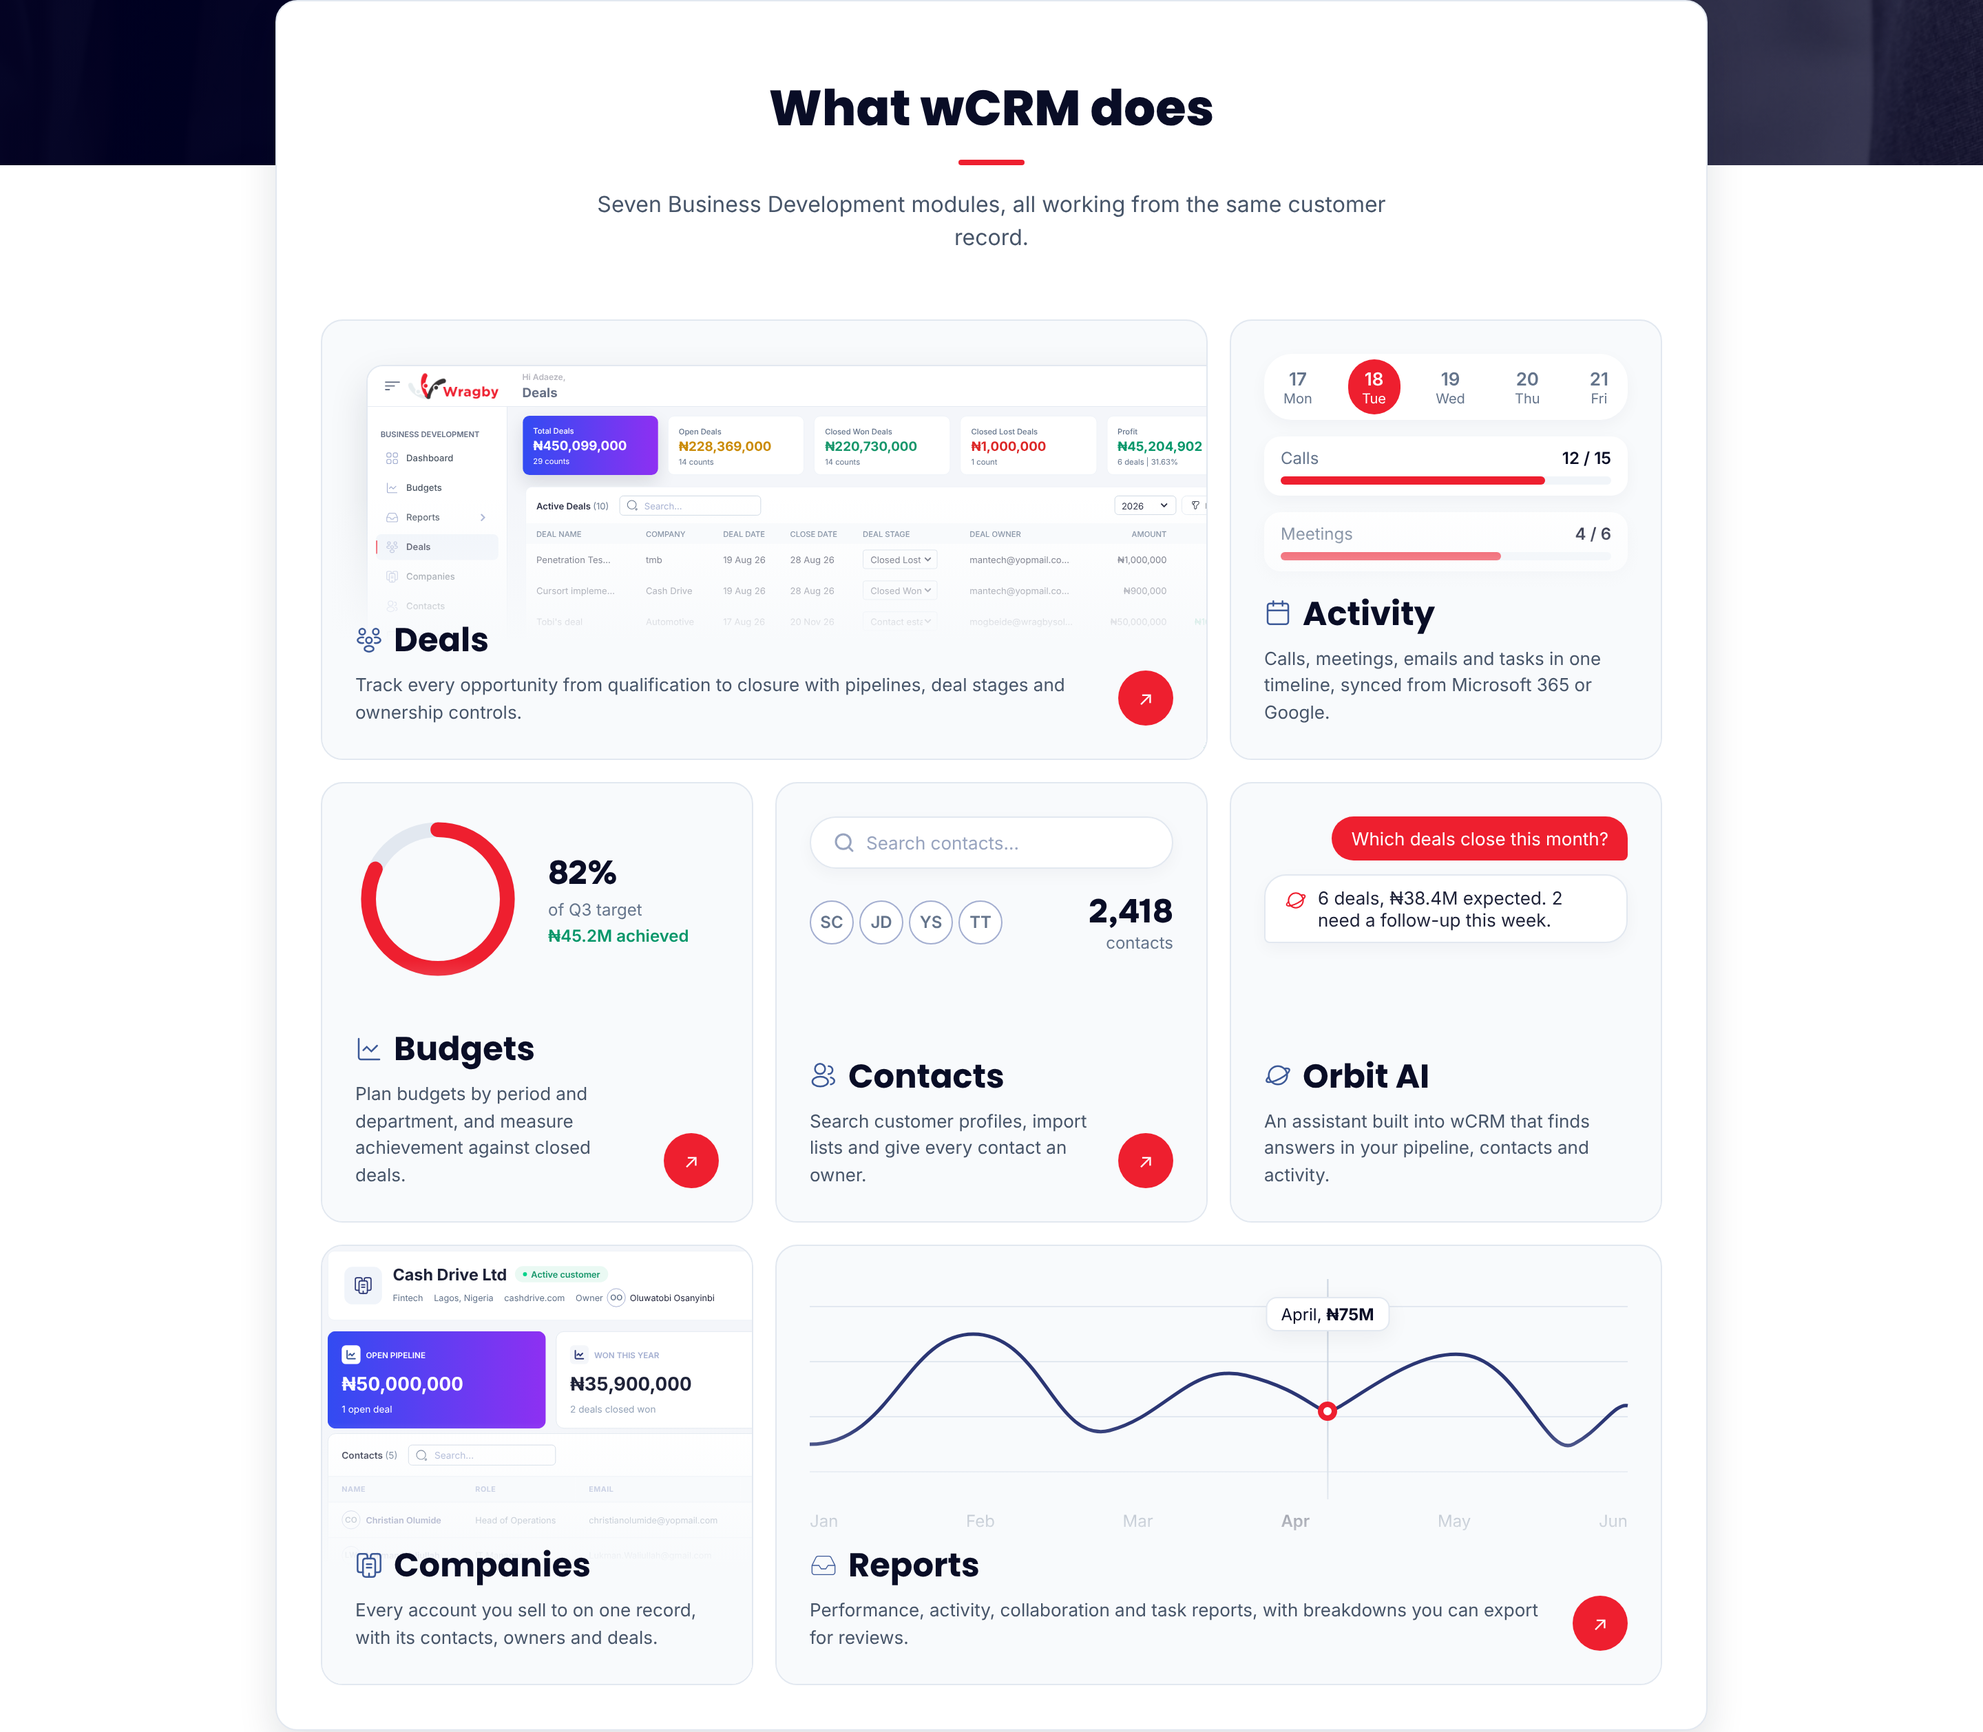
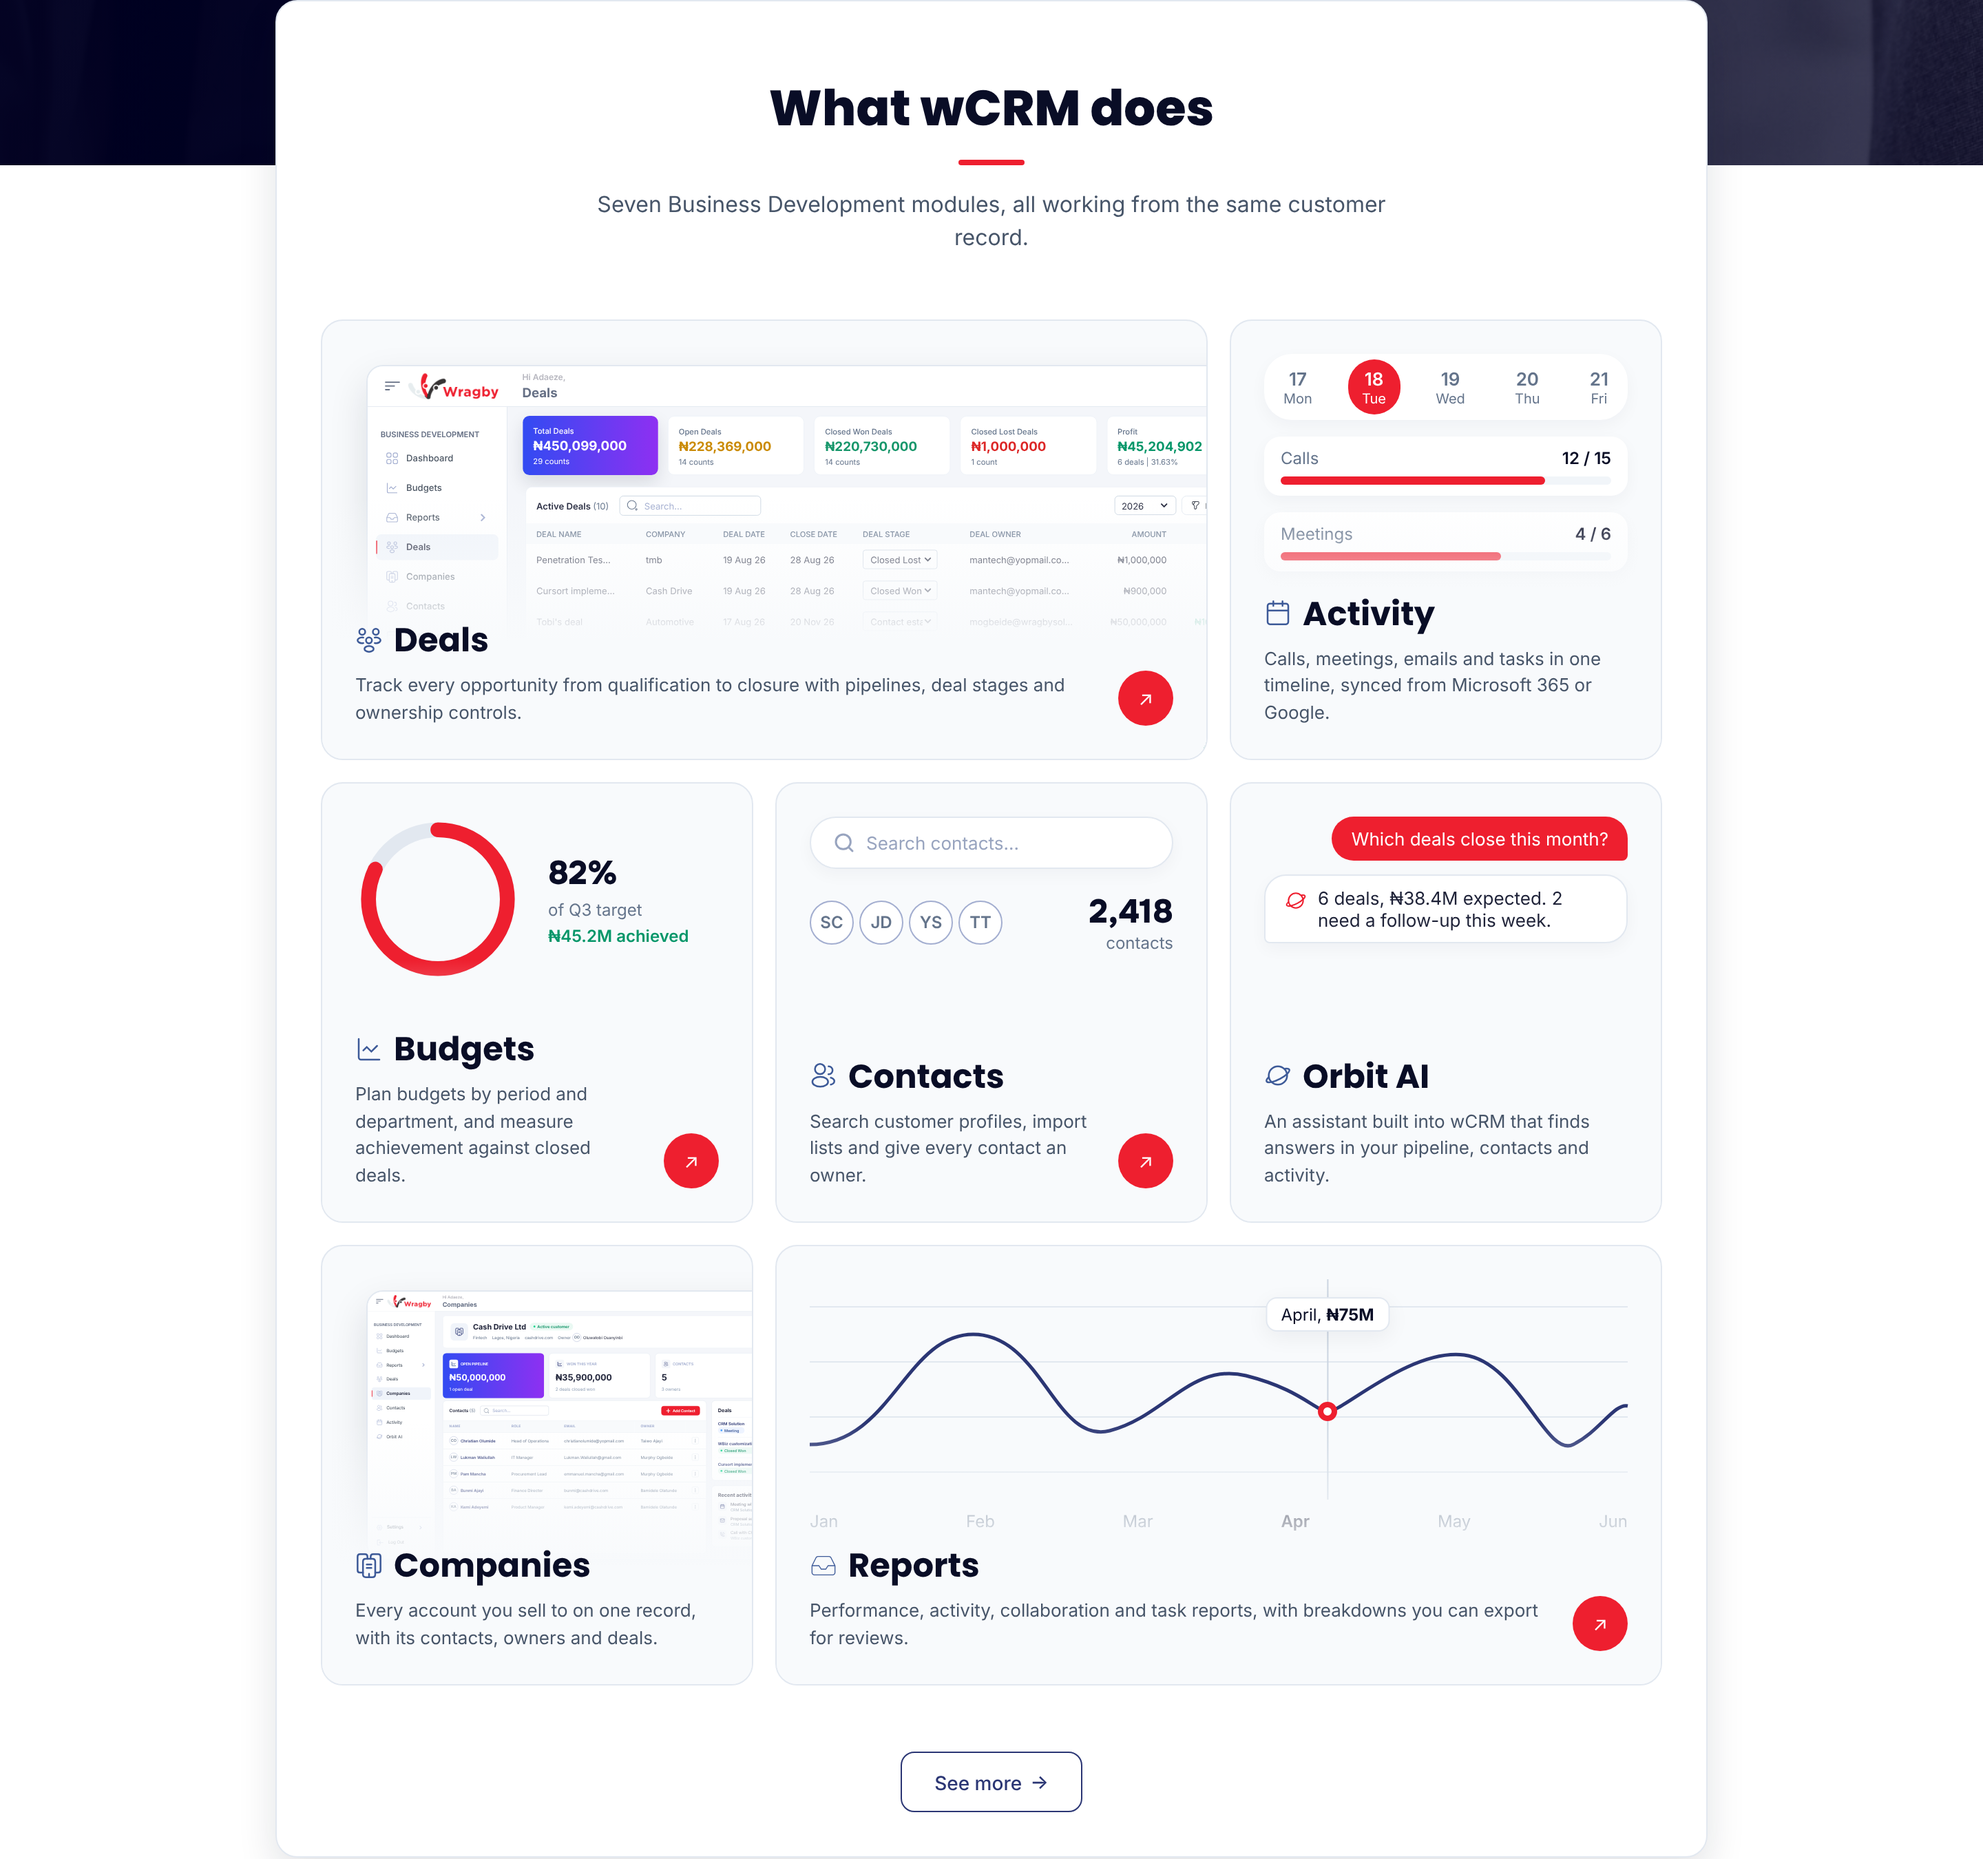
Concept homepage: zoom out the shots, rename the resources section, add See more buttons
- Companies bento card shows the inset app window like Deals; the
  featured story shows the whole Performance report window.
- 3D icons drawn smaller in their tiles.
- "Resources & updates" is now "Latest from wCRM".
- Every section ends with a See more button.

Claude-Session: https://claude.ai/code/session_01LwcCAsQhzDMqnBSRHS6q74

diff --git a/wCRM-website/src/pages/ConceptPage.tsx b/wCRM-website/src/pages/ConceptPage.tsx
@@ -123,6 +123,16 @@ function SectionHead({ id, title, lead, align = 'center' }: { id: string; title:
   );
 }
 
+/** "See more" button under a section, in the site's outline button style. */
+function SeeMore({ to, label }: { to: string; label: string }) {
+  return (
+    <SiteButtonLink to={to} variant="header-outline" aria-label={label} className="group/more">
+      See more
+      <span aria-hidden="true" className="transition-transform duration-base ease-standard group-hover/more:translate-x-1">→</span>
+    </SiteButtonLink>
+  );
+}
+
 /* 1 · Utility bar ------------------------------------------------------------------------------------------- */
 
 function UtilityBar() {
@@ -397,12 +407,13 @@ function Modules() {
             <OrbitWidget />
           </BentoCard>
           <BentoCard m={M.companies} span="col-span-2">
-            <CropShot id="companies" name="companies" focus={{ x: 233, y: 70, w: 640 }} />
+            <InsetShot id="companies" />
           </BentoCard>
           <BentoCard m={M.reports} span="col-span-4">
             <ReportsWidget />
           </BentoCard>
         </div>
+        <SeeMore to="/#features" label="See more about wCRM's features" />
       </div>
     </section>
   );
@@ -492,6 +503,7 @@ function ProductTour() {
           </TabsContent>
         ))}
       </Tabs>
+      <SeeMore to="/features/deal-management" label="See more of the product in the feature pages" />
     </section>
   );
 }
@@ -533,15 +545,16 @@ function Foundation({ suggest }: { suggest: boolean }) {
       ) : (
         values
       )}
+      <SeeMore to="/#why-choose-us" label="See more about why teams choose wCRM" />
     </section>
   );
 }
 
-/* 6 · Resources & updates ---------------------------------------------------------------------------------- */
+/* 6 · Latest from wCRM ----------------------------------------------------------------------------------------- */
 
 /* Placeholder articles: titles show the kind of content the section is for; nothing here is published yet. */
 const UPDATES = [
-  { tag: 'Guide', title: 'Setting up stages that match how your team sells', body: 'Define reusable deal stages and pipelines that guide every opportunity from qualification to closure.', icon: { Icon: Setting2Icon, stroke: 2.4, label: 'Gear' }, stock: 'Whiteboard with a sales pipeline sketched on it' },
+  { tag: 'Guide', title: 'Setting up stages that match how your team sells', body: 'Define reusable deal stages and pipelines that guide every opportunity from qualification to closure.', icon: { Icon: Setting2Icon, stroke: 1.8, label: 'Gear' }, stock: 'Whiteboard with a sales pipeline sketched on it' },
   { tag: 'Product', title: 'Bring Microsoft 365 and Google activity into wCRM', body: 'Emails and calendar events now land on the contact and deal they belong to.', icon: { Icon: LucideMailIcon, stroke: 1.9, label: 'Envelope' }, stock: 'Laptop with an inbox and calendar open' },
   { tag: 'Webinar', title: 'Planning next year’s sales budget by team', body: 'Allocate targets across practice areas and watch variance as deals close.', icon: { Icon: LucideAwardIcon, stroke: 1.9, label: 'Award' }, stock: 'Presenter in front of a room, mid-talk' },
 ];
@@ -549,7 +562,7 @@ const UPDATES = [
 function Updates({ suggest }: { suggest: boolean }) {
   return (
     <section aria-labelledby="updates" className="flex flex-col items-center gap-14 px-50 py-20">
-      <SectionHead id="updates" title="Resources & updates" />
+      <SectionHead id="updates" title="Latest from wCRM" lead="Guides, product updates, webinars and customer stories." />
       {suggest && (
         <Note n={4} title="Use stock photos here, not screenshots or 3D icons">
           A customer story is about people, so lead with a photo of a sales team rather than a product screen. The glossy red 3D icons clash with the photographic hero; one photo per article (or a single consistent illustration set) reads as editorial content.
@@ -560,8 +573,8 @@ function Updates({ suggest }: { suggest: boolean }) {
           {suggest ? (
             <Placeholder kind="stock" title="Sales team reviewing results together around a laptop" size="16:9" className="h-site-need-card w-full" radius="rounded-xl" />
           ) : (
-            <div className="relative h-site-need-card w-full overflow-hidden rounded-xl border border-border-default bg-surface-canvas">
-              <CropShot id="reports" name="reports" focus={{ x: 217 + 12, y: 63 + 4, w: 1380 }} />
+            <div data-shot="window-reports" className="flex h-site-need-card w-full items-center justify-center overflow-hidden rounded-xl border border-border-default bg-surface-canvas p-4">
+              <FullShot id="reports" className="rounded-md border border-border-default shadow-md" />
             </div>
           )}
           <span className="text-overline uppercase tracking-wide text-site-red">Customer story</span>
@@ -585,6 +598,8 @@ function Updates({ suggest }: { suggest: boolean }) {
           ))}
         </ul>
       </div>
+      {/* No resources page exists yet; point this at the blog or resource hub once there is one. */}
+      <SeeMore to="#" label="See more guides, updates and stories" />
     </section>
   );
 }
@@ -596,6 +611,7 @@ function Pricing() {
     <section aria-labelledby="plans" className="flex flex-col items-center gap-12 border-t border-border-default px-50 py-20">
       <SectionHead id="plans" title="Simple, transparent pricing" lead="All plans include a 14-day free trial." />
       <PlanCards />
+      <SeeMore to="/pricing#compare" label="See more: compare every plan feature" />
     </section>
   );
 }

diff --git a/wCRM-website/src/components/Icon3D.tsx b/wCRM-website/src/components/Icon3D.tsx
@@ -9,11 +9,11 @@ import { cn } from '@ds';
  */
 
 const DEPTH = 7; // extrusion layers
-const STEP = { x: 0.55, y: 0.85 }; // px per layer
+const STEP = { x: 0.45, y: 0.7 }; // px per layer
 
 export interface Icon3DProps {
   Icon: ComponentType<SVGProps<SVGSVGElement>>;
-  /** Stroke width that makes the glyph chunky at 64px (lucide 16px glyphs ≈ 2, vuesax 24px glyphs ≈ 2.4). */
+  /** Stroke width that makes the glyph chunky at 48px (lucide 16px glyphs ≈ 1.9, vuesax 24px glyphs ≈ 1.8). */
   stroke: number;
   label: string;
   className?: string;
@@ -33,8 +33,8 @@ export function Icon3D({ Icon, stroke, label, className }: Icon3DProps) {
         </defs>
       </svg>
       {/* Ground shadow */}
-      <span aria-hidden="true" className="absolute bottom-4 h-2.5 w-14 rounded-full bg-text-black opacity-20 blur-sm" />
-      <span aria-hidden="true" className="relative size-16 -translate-x-1 -translate-y-1">
+      <span aria-hidden="true" className="absolute bottom-6 h-2 w-10 rounded-full bg-text-black opacity-20 blur-sm" />
+      <span aria-hidden="true" className="relative size-12 -translate-x-0.5 -translate-y-1">
         {Array.from({ length: DEPTH }, (_, i) => DEPTH - i).map((n) => (
           <Icon
             key={n}

diff --git a/wCRM-website/README.md b/wCRM-website/README.md
@@ -23,9 +23,9 @@ app's `node_modules`.
 | `/pricing` | `crm-pricing-page` (231:636): Monthly / Annual switch, plan cards, "Compare every included feature" table (`/pricing#compare` opens it; the homepage "View comparisons" button links there) |
 | `/contact` | `crm-contact-sales` (231:1058) → sent state (367:10351) |
 | `/features/:id` | Not in Figma; built in the site's style. One page per homepage feature (`contact-management`, `deal-management`, `activities-reporting`, `budget-targets`): hero with the product screen, capabilities, how it works, related features, call-to-action band. Content lives in `src/data/features.ts` |
-| `/concept` | Not in Figma; a concept homepage that applies a classic corporate-site layout (utility bar, photo hero, overlapping modules card, values band, resources, closing band) to wCRM, built from the site's components. "What wCRM does" is a bento grid of the seven Business Development modules (Budgets, Reports, Deals, Companies, Contacts, Activity, Orbit AI): each card holds a product widget (sample data, design-system tokens) or a product shot, with the title and description over a bottom vignette and the sidebar's design-system icon. Cards, widgets and the vignette (`bg-site-vignette`, built on `surface-subtle`) follow the page theme. Product shots come from `src/components/MarketingShots.tsx`: full pages without the top bar in the "See it at work" browser frames, an inset (straight) Deals window and a cropped Company record in the bento, a cropped Performance report on the featured resource. The Resources thumbnails are 3D icons (`src/components/Icon3D.tsx`). The resource articles and customer story are placeholders. Screenshot: [`docs/concept-homepage-placeholders.jpg`](docs/concept-homepage-placeholders.jpg) |
+| `/concept` | Not in Figma; a concept homepage that applies a classic corporate-site layout (utility bar, photo hero, overlapping modules card, values band, "Latest from wCRM", closing band) to wCRM, built from the site's components. "What wCRM does" is a bento grid of the seven Business Development modules (Budgets, Reports, Deals, Companies, Contacts, Activity, Orbit AI): each card holds a product widget (sample data, design-system tokens) or a product shot, with the title and description over a bottom vignette and the sidebar's design-system icon. Cards, widgets and the vignette (`bg-site-vignette`, built on `surface-subtle`) follow the page theme. Product shots come from `src/components/MarketingShots.tsx`: full pages without the top bar in the "See it at work" browser frames, inset (straight) Deals and Company windows in the bento, the whole Performance report window on the featured story in "Latest from wCRM". The article thumbnails there are 3D icons (`src/components/Icon3D.tsx`). Every section ends with a "See more" button (features, feature pages, why choose us, pricing comparison); the "Latest from wCRM" one has no destination yet because there is no resources page. The articles and customer story are placeholders. Screenshot: [`docs/concept-homepage-placeholders.jpg`](docs/concept-homepage-placeholders.jpg) |
 | `/concept/suggestions` | The same page with the remaining proposed changes, each marked by a numbered note: product card in the hero, a social-proof band, a photo in the values band, stock photos for resources, and a sales-rep photo beside the closing Contact us button. Screenshot of an earlier revision (before the bento modules): [`docs/concept-homepage-suggestions.jpg`](docs/concept-homepage-suggestions.jpg) |
-| `/concept/screens` | Export sheet: every "See it at work" shot (sidebar and content, no top bar) at its native 1617 × 797. Exported PNGs (full, cropped, inset, 3D icons, bento and resources in both themes; 2×) are in [`docs/screens/`](docs/screens) |
+| `/concept/screens` | Export sheet: every "See it at work" shot (sidebar and content, no top bar) at its native 1617 × 797. Exported PNGs (full, inset, window, 3D icons, bento and "Latest from wCRM" in both themes; 2×) are in [`docs/screens/`](docs/screens) |
 | `/checkout/configure` | `crm-configure-plan` (231:956, several organisations 367:10622) + `wcrm-add-orgs-modal` (372:2334) |
 | `/checkout/account` | `wcrm-create-account` (372:2542) + `successful popup` (372:3583) |
 | `/checkout/verify` | `otp-verification` (372:3189) |
